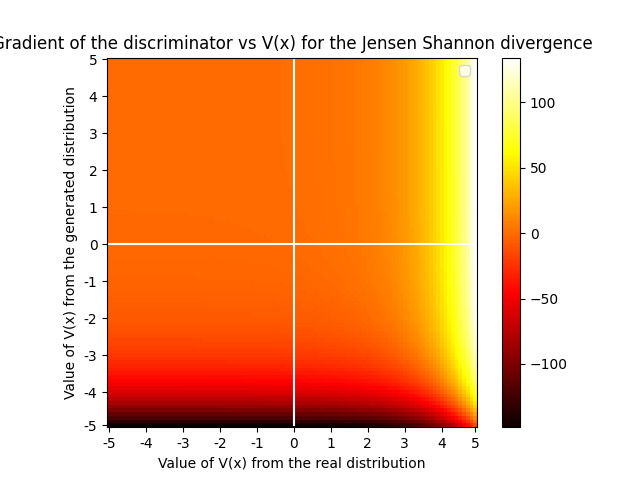
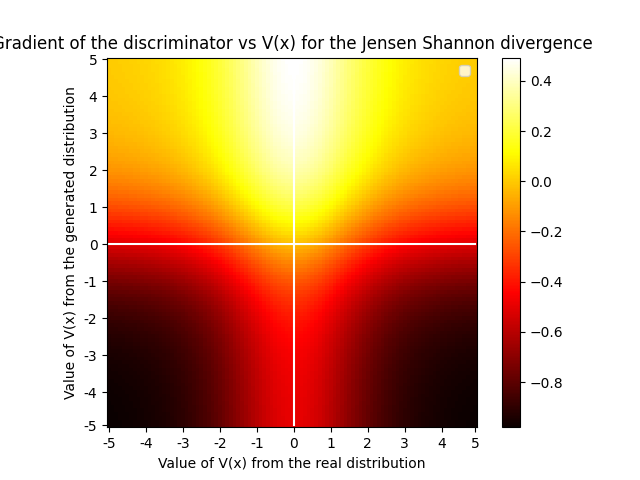
Fixed gradient plots

diff --git a/PlotgradVsTx.py b/PlotgradVsTx.py
@@ -4,7 +4,7 @@ from f_gan import Divergence
 import matplotlib.pyplot as plt
 import numpy as np
 
-fprim1=[0,1,-1,0,0,0]
+fprim1=[0,1,0,0,0,0]
 
 variable2=torch.zeros(1, requires_grad=True)
 
@@ -64,6 +64,9 @@ for loss,color,fprim in zip(['total_variation', 'forward_kl', 'reverse_kl', 'pea
             grad2=torch.autograd.grad(lg, variable2)
             arr.append(grad[0]+grad2[0])
         y.append(arr)
+    # print(fprim)
+    # print(torch.Tensor([fprim]))
+    # fprim=div.Tx(torch.Tensor([fprim]))[0].item()
     # print(fprim)
     line=np.zeros_like(x)+(fprim+5)*10
     # print(line)

diff --git a/f_gan.py b/f_gan.py
@@ -316,6 +316,7 @@ class Divergence:
         elif self.method == 'jensen_shannon':
             return torch.log(torch.tensor(2.))-torch.log(1+torch.exp(-score))
 
+
     def RealFake(self, DG_score, DX_score):
         #Returns the percent of examples that were correctly classified by the discriminator
         DG_score=self.Tx(DG_score)
